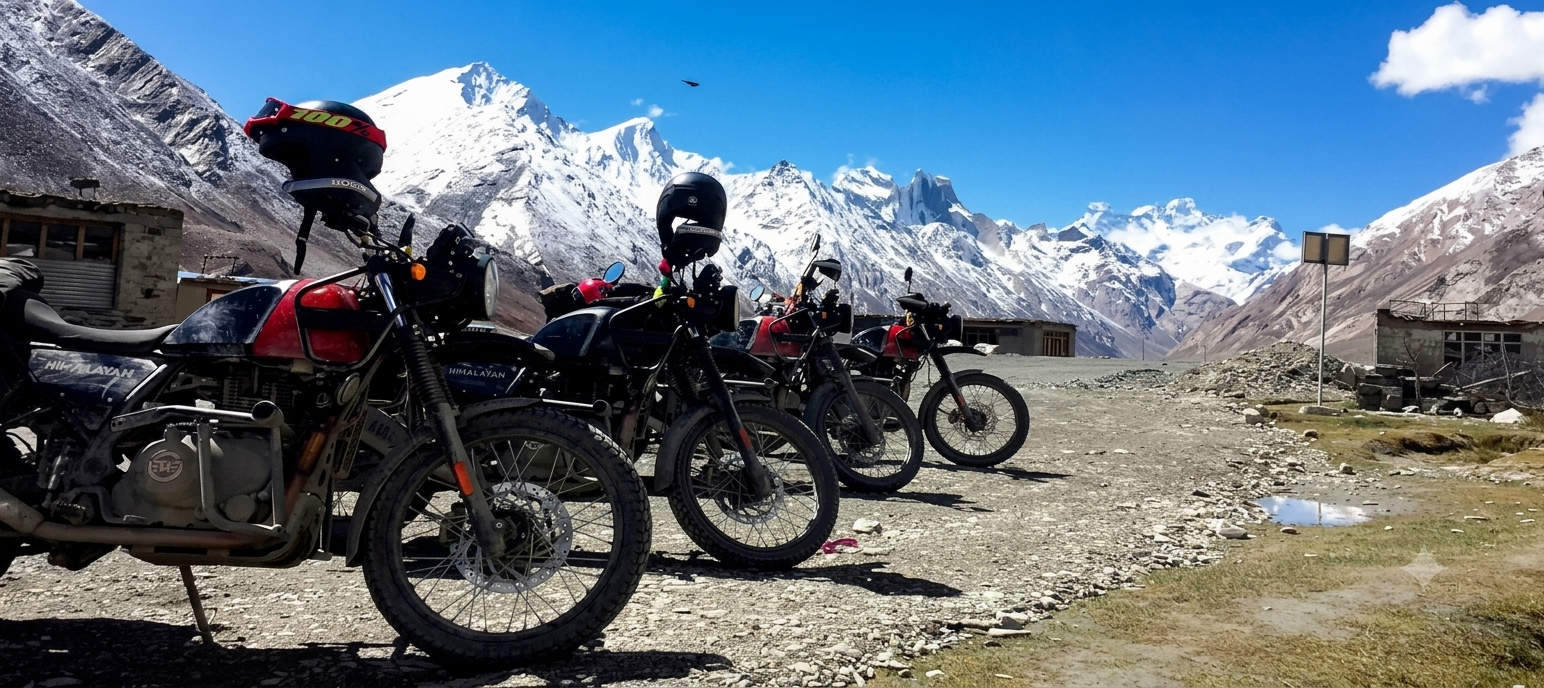
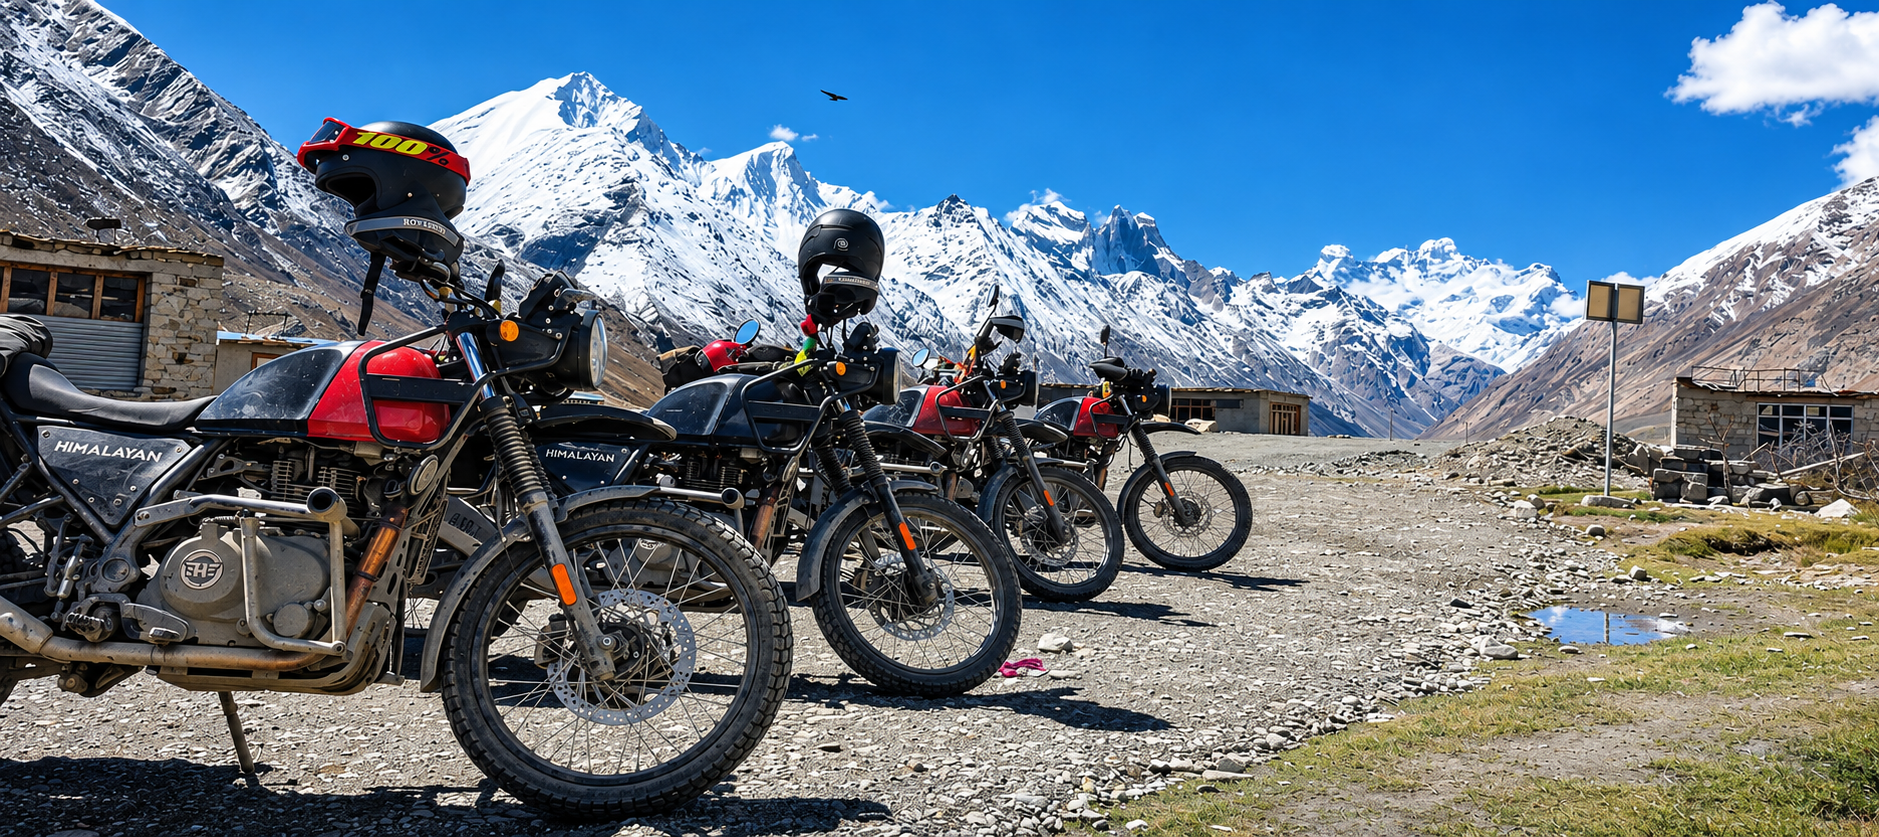
photos

diff --git a/data/images.js b/data/images.js
@@ -20,8 +20,8 @@ export const IMAGES = {
       "/images/home/group-tso-moriri-camp.png",      // portrait
     ],                                               // 5 pictures: 1 wide + 4 portrait
     people: "/images/home/vinod-briefing-dawn.png",  // Vinod briefing the group (4:5)
-    fleetWide: "/images/home/buttom.png",            // wide photo of the fleet (21:9)
-    custom: "/images/home/a-private-group-on-Zanskar-Kinnaur.png",  // private group on an unmarked road (4:5)
+    fleetWide: "/images/home/the-fleet.png",            // wide photo of the fleet (21:9)
+    custom: "/images/home/home-buttom.png",  // private group on an unmarked road (4:5)
   },
   journeys: { hero: "/images/journeys/group-riding-toward-pass-early-morning.png" },
   past: {
@@ -32,8 +32,8 @@ export const IMAGES = {
   },
   custom: { hero: "/images/custom-tour/private-group-remote-road.png", cases: [null, null, null] },
   fleet: {
-    hero: "/images/fleet/fleet.jpeg",        // top of the /fleet page
-    archive: "/images/fleet/REMAIN.avif",
+    hero: "/images/fleet/fleet.png",        // top of the /fleet page
+    archive: "/images/fleet/REMAIN.png",
     bikes: [
       "/images/fleet/RE450.png",             // Himalayan 450
       "/images/fleet/RE411.png",             // Himalayan 411
@@ -43,20 +43,18 @@ export const IMAGES = {
   },
   about: { hero: null },
   crew: {
-    hero: null,
+    hero: "/images/crew/crew_with_vehicle.png",  // top of the /crew page
     // same order as CREW in data/crew.js
     portraits: [
-      "/images/crew/vinod.jpeg",        // Vinod Kaistha
-      "/images/crew/nadia.jpeg",        // Nadia Kaistha
-      "/images/crew/Uwe-balser.jpeg",   // Uwe Balser
-      "/images/crew/sahil.jpeg",        // Sahil Kaistha
-       "/images/crew/jaydeep.jpeg",      // Jaydeep Mishra
-       "/images/crew/tony.jpeg",         // Tony
-      "/images/crew/Surya-Kaistha.jpeg", // Surya Kaistha ()
-      
-     
-      
-      
+      "/images/crew/vinod.jpeg",          // Vinod Kaistha
+      "/images/crew/nadia.jpeg",          // Nadia Kaistha
+      "/images/crew/Uwe-balser.jpeg",     // Uwe Balser
+      "/images/crew/sahil.jpeg",          // Sahil Kaistha
+      "/images/crew/jaydeep.jpeg",        // Jaydeep Mishra
+      "/images/crew/tony.jpeg",           // Tony
+      "/images/crew/Surya-Kaistha.jpeg",  // Surya Kaistha
+      "/images/crew/aloo.jpeg",           // Aloo
+      "/images/crew/ramesh.jpeg",         // Ramesh
     ],
   },
   // journal: key = post "id" in data/posts.js (hero) ; the card picture uses card

diff --git a/components/MediaFrame/MediaFrame.js b/components/MediaFrame/MediaFrame.js
@@ -12,13 +12,14 @@ export default function MediaFrame({
   alt,
   label,
   ratio,
-  video = false,     // show a play icon on the placeholder
-  aspect,            // CSS aspect-ratio, e.g. "3 / 2"
-  tone = "default",  // placeholder colour: default | warm | green | stone
-  labelTop = false,  // put the caption at the top-left (used on heroes)
-  fill = false,      // stretch to cover the parent (heroes)
-  flat = false,      // no rounded corners
+  video = false,       // show a play icon on the placeholder
+  aspect,              // CSS aspect-ratio, e.g. "3 / 2"
+  tone = "default",    // placeholder colour: default | warm | green | stone
+  labelTop = false,    // put the caption at the top-left (used on heroes)
+  fill = false,        // stretch to cover the parent (heroes)
+  flat = false,        // no rounded corners
   priority = false,
+  objectPosition,      // NEW: e.g. "center 60%" -> which part of the photo stays visible
   sizes = "(max-width: 860px) 100vw, 50vw",
   className = "",
   style,
@@ -36,6 +37,8 @@ export default function MediaFrame({
     .filter(Boolean)
     .join(" ");
 
+  const mediaStyle = objectPosition ? { objectPosition } : undefined;
+
   return (
     <div
       className={cls}
@@ -44,9 +47,25 @@ export default function MediaFrame({
     >
       {src ? (
         isVideo ? (
-          <video className={styles.media} src={src} autoPlay muted loop playsInline />
+          <video
+            className={styles.media}
+            src={src}
+            autoPlay
+            muted
+            loop
+            playsInline
+            style={mediaStyle}
+          />
         ) : (
-          <Image className={styles.media} src={src} alt={alt ?? label ?? ""} fill sizes={sizes} priority={priority} />
+          <Image
+            className={styles.media}
+            src={src}
+            alt={alt ?? label ?? ""}
+            fill
+            sizes={sizes}
+            priority={priority}
+            style={mediaStyle}
+          />
         )
       ) : (
         <>

diff --git a/components/PageHero/PageHero.js b/components/PageHero/PageHero.js
@@ -4,11 +4,6 @@ import { motion, useReducedMotion, useScroll, useTransform } from "framer-motion
 import MediaFrame from "@/components/MediaFrame/MediaFrame";
 import styles from "./PageHero.module.css";
 
-/**
- * Full-width photo/video header used on every inner page.
- * kicker = small line above the title, lead = paragraph under it, children = buttons.
- * The media stays fixed in size and position; only the text fades and lifts slightly on scroll.
- */
 export default function PageHero({
   src,
   video = false,
@@ -21,6 +16,8 @@ export default function PageHero({
   lead,
   meta,
   height = "min(60vh, 520px)",
+  aspect,            // NEW: e.g. "3 / 2" -> hero takes the photo's real shape (no crop)
+  position,          // NEW: e.g. "center 60%" -> which part stays visible if some crop happens
   children,
 }) {
   const reduce = useReducedMotion();
@@ -34,9 +31,26 @@ export default function PageHero({
     ? {}
     : { initial: { opacity: 0, y: 24 }, animate: { opacity: 1, y: 0 }, transition: { duration: 0.8, ease: [0.2, 0.7, 0.2, 1] } };
 
+  const heroStyle = aspect ? { "--a": aspect } : { "--h": height };
+
   return (
-    <header ref={ref} className={styles.hero} style={{ "--h": height }}>
-      <MediaFrame fill flat priority src={src} label={label} ratio={ratio} video={video} labelTop sizes="100vw" />
+    <header
+      ref={ref}
+      className={`${styles.hero} ${aspect ? styles.byAspect : ""}`}
+      style={heroStyle}
+    >
+      <MediaFrame
+        fill
+        flat
+        priority
+        src={src}
+        label={label}
+        ratio={ratio}
+        video={video}
+        labelTop
+        sizes="100vw"
+        objectPosition={position}
+      />
       <div className={styles.shade} />
       <motion.div className={styles.copy} style={reduce ? undefined : { y: copyY, opacity: copyOpacity }}>
         <motion.div className="wrap" {...anim}>

diff --git a/data/crew.js b/data/crew.js
@@ -8,11 +8,11 @@ export const CREW = [
   {
     name: "Nadia Kaistha",
     role: "Co-Founder, Guest Relations and Administrative Manager",
-    line: "“Bringing the East close to the West with an understanding of customer’s needs” ",
+    line: "“Bringing the East close to the West with an understanding of customer’s needs”",
   },
   {
     name: "Uwe Balser",
-    role: " Sales and Marketing Representative for Europe",
+    role: "Sales and Marketing Representative for Europe",
     line: "[One line, in his own words.]",
   },
   {
@@ -25,15 +25,24 @@ export const CREW = [
     role: "Road Captain and Filmmaker",
     line: "[One line, in his own words.]",
   },
- 
   {
     name: "Tony",
     role: "Road Captain",
     line: "[One line, in his own words.]",
   },
-   {
+  {
     name: "Surya Kaistha",
     role: "Junior Road Captain and Journey Manager",
+    line: "[One line, in his own words.]",
+  },
+  {
+    name: "Aloo",
+    role: "Mechanic", // <-- apna sahi role yahan likhein
+    line: "[One line, in his own words.]",
+  },
+  {
+    name: "Ramesh",
+    role: "Support Driver", // <-- apna sahi role yahan likhein
     line: "[One line, in his own words.]",
   },
 ];

diff --git a/app/crew/page.js b/app/crew/page.js
@@ -34,7 +34,7 @@ export default function CrewPage() {
                   label={`Portrait: ${p.name.split(" ")[0]}`}
                   ratio="4:5"
                   alt={p.name}
-                  sizes="(max-width: 560px) 100vw, 25vw"
+                  sizes="(max-width: 560px) 100vw, 33vw"
                   className={styles.portrait}
                 />
                 <h3>{p.name}</h3>
@@ -42,8 +42,6 @@ export default function CrewPage() {
               </div>
             ))}
           </div>
-          {/* PLACEHOLDER from the client prototype */}
-          <p className="mute" style={{ marginTop: 24 }}>[The rest of the crew, mechanics and support drivers, to be added.]</p>
         </div>
       </section>
     </>

diff --git a/app/past-journeys/page.js b/app/past-journeys/page.js
@@ -8,7 +8,7 @@ import styles from "./past.module.css";
 
 export const metadata = {
   title: "Past journeys",
-  description: "Every departure since 2011: groups, roads and the Rider Passport.",
+  description: "departure since 2011: groups, roads and the Rider Passport.",
 };
 
 export default function PastJourneysPage() {
@@ -19,7 +19,7 @@ export default function PastJourneysPage() {
         video
         label="Drone video: best of our departures, 60-second cut"
         kicker="Past journeys"
-        title="Every departure since 2011"
+        title="departure since 2011"
       />
       <section>
         <div className="wrap">

diff --git a/app/fleet/page.js b/app/fleet/page.js
@@ -14,11 +14,12 @@ export default function FleetPage() {
   return (
     <>
       <PageHero
-        src={IMAGES.fleet.hero}
-        label="Photo: the fleet lined up outside the guesthouse in Naggar"
-        kicker="Fleet"
-        title="The fleet"
-      />
+  src={IMAGES.fleet.hero}
+  label="Photo: the fleet lined up outside the guesthouse in Naggar"
+  kicker="Fleet"
+  title="The fleet"
+  aspect="16 / 9"
+/>
       <section>
         <div className="wrap">
           <div style={{ marginTop: 8 }}>

diff --git a/app/crew/crew.module.css b/app/crew/crew.module.css
@@ -1,4 +1,4 @@
-.crew { display: grid; grid-template-columns: repeat(4, 1fr); gap: 24px; margin-top: 40px; }
+.crew { display: grid; grid-template-columns: repeat(3, 1fr); gap: 24px; margin-top: 40px; }
 .portrait { margin-bottom: 12px; }
 .crew h3 { margin-bottom: 4px; }
 .crew p { font-size: 16px; color: var(--text-2); margin: 0; }
